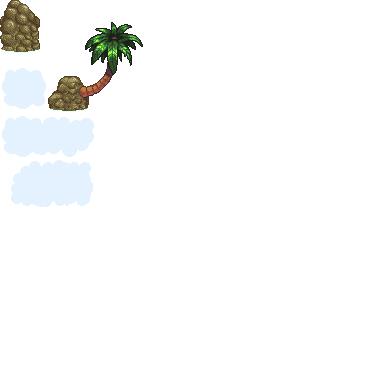
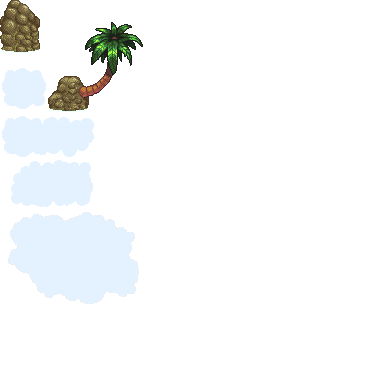
Added larger cloud from game's base asset

Changed region(s): [[0.0, 0.5312, 0.375, 0.8125]]

diff --git a/FishingTrawler/FishingTrawler/FishingTrawler/GameLocations/TrawlerSurface.cs b/FishingTrawler/FishingTrawler/FishingTrawler/GameLocations/TrawlerSurface.cs
@@ -17,6 +17,7 @@ namespace FishingTrawler.GameLocations
         // Fluff ideas: Cloud shadows (if not rainy), rock pillar, small sandy hill island with palm tree
         private Rectangle _smallCloudSource = new Rectangle(0, 64, 48, 48);
         private Rectangle _mediumCloudSource = new Rectangle(0, 160, 96, 48);
+        private Rectangle _largeCloudSource = new Rectangle(0, 208, 144, 96);
         private Rectangle _longCloudSource = new Rectangle(0, 112, 96, 48);
 
         private Rectangle _rockPillarSource = new Rectangle(0, 0, 40, 53);
@@ -81,12 +82,14 @@ namespace FishingTrawler.GameLocations
 
         internal Rectangle PickRandomCloud()
         {
-            switch (Game1.random.Next(1, 3))
+            switch (Game1.random.Next(1, 5))
             {
                 case 1:
                     return _smallCloudSource;
                 case 2:
                     return _mediumCloudSource;
+                case 3:
+                    return _largeCloudSource;
                 default:
                     return _longCloudSource;
             }
